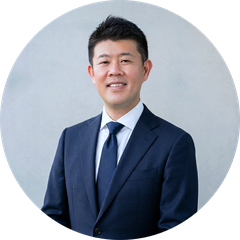
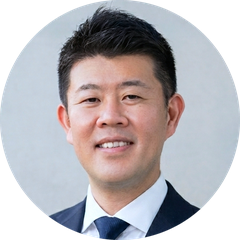
ギバ通信：顔写真を顔まわりに切り抜いて大きく表示
Claude-Session: https://claude.ai/code/session_01UBkwJYZhKdfr6nVyAer2Ew

diff --git a/src/app/[locale]/tsushin/[slug]/page.tsx b/src/app/[locale]/tsushin/[slug]/page.tsx
@@ -39,7 +39,7 @@ export default function IssuePage({ params }: Props) {
         <p className="text-xs font-bold tracking-[0.25em] text-slate-500">GIBA TSUSHIN</p>
         <h1 className="mt-2 text-3xl font-bold text-[#0B2046]">ギバ通信</h1>
         <div className="mt-4 flex items-center gap-3">
-          <img src="/images/tsushin/hata.png" alt="畑 拓也" width={52} height={52} className="h-[52px] w-[52px] rounded-full" />
+          <img src="/images/tsushin/hata.png" alt="畑 拓也" width={72} height={72} className="h-[72px] w-[72px] rounded-full" />
           <div>
             <p className="text-sm font-bold text-[#0B2046]">畑 拓也</p>
             <p className="text-xs text-slate-500">

diff --git a/src/tsushin/issues/2026-12/content.tsx b/src/tsushin/issues/2026-12/content.tsx
@@ -190,7 +190,7 @@ export default function Content() {
 
       <Part>畑のひとこと</Part>
       <section className="flex items-start gap-4">
-        <img src="/images/tsushin/hata.png" alt="畑 拓也" width={72} height={72} className="mt-3 h-[72px] w-[72px] shrink-0 rounded-full" />
+        <img src="/images/tsushin/hata.png" alt="畑 拓也" width={88} height={88} className="mt-3 h-[88px] w-[88px] shrink-0 rounded-full" />
         <div>
           <P>
             <Todo>最近食べた・飲んだもの、行った場所、商談で聞いた話を、2〜3行で</Todo>
